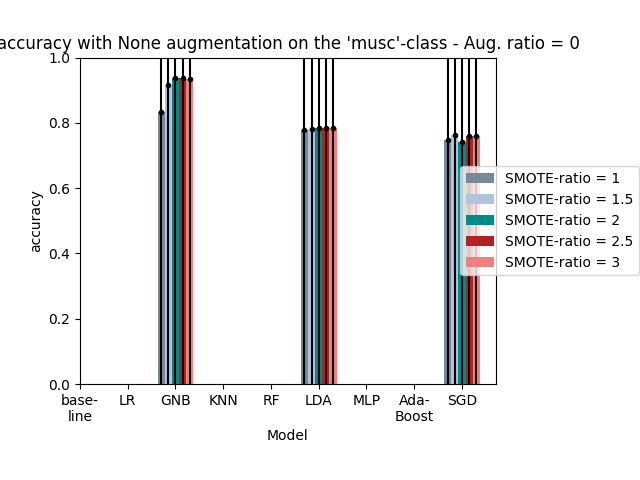
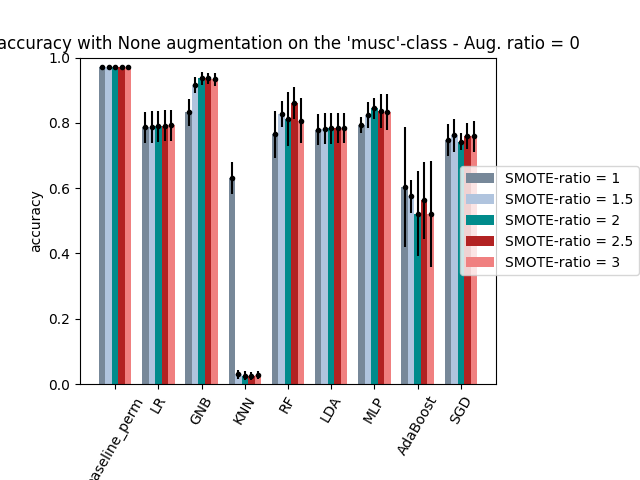
plots smote

Changed region(s): [[0.1562, 0.125, 0.75, 0.9375], [0.125, 0.9062, 0.1875, 1.0], [0.0938, 0.8125, 0.1562, 0.875]]

diff --git a/evaluation/results.py b/evaluation/results.py
@@ -107,7 +107,7 @@ class getResults:
 
         print(f"\n ---> Pickle path changed to: {self.pickle_path}")
 
-    def mergeResultFiles(self, file_name="merged", merge_smote_files=False, merge_aug_files=False, exclude_models=None):
+    def mergeResultFiles(self, file_name="merged", merge_smote_files=False, merge_aug_files=False, exclude_models=None, merge_smote=False, model_name='AdaBoost'):
 
         if self.merged_file == False:
             raise Exception("Merged file set to 'False'")
@@ -301,7 +301,7 @@ class getResults:
                 for idx_art, artifact in enumerate(self.artifacts):
                     # table[artifact] = []
                     store_model = [0] * len(self.models)
-                    sensitivity_std = [0] * len(self.models)
+                    measure_std = [0] * len(self.models)
 
                     for idx_mod, model in enumerate(self.models):
 
@@ -331,10 +331,10 @@ class getResults:
 
                         # Store standard deviation for sensitivies for each classifier/ model
                         store_model[idx_mod] = np.mean(store_scores)
-                        sensitivity_std[idx_mod] = np.mean(store_scores)
+                        measure_std[idx_mod] = np.std(store_scores)
 
                     table[artifact] = store_model
-                    table_std[artifact] = sensitivity_std
+                    table_std[artifact] = measure_std
 
                 table['avg. accuracy'] = np.mean(acc, axis=1)
                 table['avg. weighted f2'] = np.mean(f2s, axis=1)
@@ -354,7 +354,7 @@ class getResults:
     def plotResultsAugmentation(self, performances_dict, errors_dict, experiment, aug_technique, measure="sensitiviy",
                                 save_img=False):
 
-        save_path = (self.slash).join([dir, "Plots", experiment])
+        save_path = (self.slash).join([self.dir, "Plots", experiment])
 
         colorlist = ["lightslategrey", "lightsteelblue", "darkcyan", "firebrick", "lightcoral"]
         # Plotting results
@@ -363,7 +363,7 @@ class getResults:
         for indv_art, name in enumerate(self.artifacts):
             for j, smote_ratio in enumerate(self.smote_ratios):
                 for i, aug_ratio in enumerate(self.aug_ratios):
-                    performance_dict = performance_dict[aug_ratio][smote_ratio]
+                    performance_dict = performances_dict[aug_ratio][smote_ratio]
                     error_dict = errors_dict[aug_ratio][smote_ratio]
 
                     performance_vals = np.array(list(performance_dict.values())[:art])
@@ -377,14 +377,16 @@ class getResults:
                                  fmt='.', color='k')
 
                 models = self.models
+                """
                 for i, model in enumerate(models):
                     if model == 'baseline_perm':
                         models[i] = "base-\nline"
                     elif model == 'AdaBoost':
                         models[i] = "Ada-\nBoost"
+                """
 
 
-                plt.xticks(np.arange(len(models)), models, rotation=0)
+                plt.xticks(np.arange(len(models)), models, rotation=60)
                 plt.ylim(0, 1)
 
                 if aug_technique == None:
@@ -415,7 +417,7 @@ class getResults:
         if aug_ratios == None:
             aug_ratios = self.aug_ratios
 
-        save_path = (self.slash).join([dir, "Plots", experiment])
+        save_path = (self.slash).join([self.dir, "Plots", experiment])
 
         colorlist = ["lightslategrey", "lightsteelblue", "darkcyan", "firebrick", "lightcoral"]
         # Plotting results
@@ -440,13 +442,15 @@ class getResults:
                                      fmt='.', color='k')
 
                     models = self.models
+                    """
                     for i, model in enumerate(models):
                         if model == 'baseline_perm':
                             models[i] = "base-\nline"
                         elif model == 'AdaBoost':
                             models[i] = "Ada-\nBoost"
+                    """
 
-                    plt.xticks(np.arange(len(models)), models, rotation=0)
+                    plt.xticks(np.arange(len(models)), models, rotation=60)
                     plt.ylim(0, 1)
 
                     if aug_technique == None:
@@ -485,14 +489,17 @@ class getResults:
                         plt.errorbar(x=X_axis + 0.15 * i, y=performance_vals[indv_art, :], yerr=error_vals[indv_art, :],
                                      fmt='.', color='k')
 
+
                     models = self.models
+                    """
                     for i, model in enumerate(models):
                         if model == 'baseline_perm':
                             models[i] = "base-\nline"
                         elif model == 'AdaBoost':
                             models[i] = "Ada-\nBoost"
+                    """
 
-                    plt.xticks(np.arange(len(models)), models, rotation=0)
+                    plt.xticks(np.arange(len(models)), models, rotation=60)
                     plt.ylim(0, 1)
 
                     if aug_technique == None:
@@ -593,7 +600,7 @@ class getResults:
     def getPredictions(self, aug_ratios=None, smote_ratios=None, artifacts=None, models=None, withFolds=False):
 
         correct_models = ['baseline_perm', 'LR', 'GNB', 'KNN', 'RF', 'LDA', 'MLP', 'AdaBoost', 'SGD']
-        if self.models is not correct_models:
+        if self.models != correct_models:
             self.models = correct_models
 
         if aug_ratios is None:
@@ -636,8 +643,6 @@ class getResults:
                             y_pred_fold = results_all[aug_ratio][smote_ratio][fold][artifact][model]['y_pred']
 
                             y_pred.append(y_pred_fold)
-
-
 
                         try:
                             trial = np.concatenate(y_pred)

diff --git a/evaluation/smote_experiment.py b/evaluation/smote_experiment.py
@@ -5,7 +5,7 @@ if __name__ == '__main__':
 
     # Example of merging fully created files from different models.
     experiment = "smote_f2"  # directory containing the files we will look at
-    experiment_name = '_smote_f2_merge_withoutKNN'
+    experiment_name = '_smote_f2_merged_allModels'
     fullSMOTE = getResults(dir, experiment, experiment_name, merged_file=True, windowsOS=True)
     fullSMOTE.mergeResultFiles(file_name=experiment_name)
 
@@ -33,22 +33,6 @@ if __name__ == '__main__':
                           across_SMOTE=True,
                           save_img=save_img)
 
-    # Next we wish to examine sensitivity
-    fullSMOTE.printResults(measure="sensitivity",
-                           experiment_name=experiment_name,
-                           smote_ratios=[1],
-                           aug_ratios=[0],
-                           printSTDTable=False,
-                           LaTeX=False)
-
-    fullSMOTE.plotResults(measure="sensitivity",
-                          experiment_name=experiment_name,
-                          aug_technique=aug_technique,
-                          smote_ratios=fullSMOTE.smote_ratios,
-                          aug_ratios=[0],
-                          across_SMOTE=False,
-                          save_img=save_img)
-
     # Next we wish to examine accuracy
     fullSMOTE.printResults(measure="accuracy",
                            experiment_name=experiment_name,
@@ -57,10 +41,29 @@ if __name__ == '__main__':
                            printSTDTable=False,
                            LaTeX=False)
 
-    fullSMOTE.plotResults(measure='accuracy',
+    fullSMOTE.plotResults(measure="accuracy",
                           experiment_name=experiment_name,
                           aug_technique=aug_technique,
                           smote_ratios=fullSMOTE.smote_ratios,
                           aug_ratios=[0],
                           across_SMOTE=True,
                           save_img=save_img)
+
+    # Next we wish to examine accuracy
+    fullSMOTE.printResults(measure="sensitivity",
+                           experiment_name=experiment_name,
+                           smote_ratios=[1],
+                           aug_ratios=[0],
+                           printSTDTable=False,
+                           LaTeX=False)
+
+    fullSMOTE.plotResults(measure='sensitivity',
+                          experiment_name=experiment_name,
+                          aug_technique=aug_technique,
+                          smote_ratios=fullSMOTE.smote_ratios,
+                          aug_ratios=[0],
+                          across_SMOTE=True,
+                          save_img=save_img)
+
+    print("Break")
+

diff --git a/evaluation/ensemble_experiment.py b/evaluation/ensemble_experiment.py
@@ -9,7 +9,7 @@ if __name__ == '__main__':
 
     # Example of merging fully created files from different models.
     experiment = "smote_f2"  # directory containing the files we will look at
-    experiment_name = '_smote_f2_mergeExample'
+    experiment_name = '_smote_f2_withoutKNN'
     fullSMOTE = getResults(dir, experiment, experiment_name, merged_file=True, windowsOS=True)
     fullSMOTE.mergeResultFiles(file_name=experiment_name)
 
@@ -23,7 +23,7 @@ if __name__ == '__main__':
     MI = fullSMOTE.getMutualInformation(artifact='eyem')
     print("Mutual Information:\n" + str(MI))
 
-    y_pred_dict_sub = fullSMOTE.getPredictions(models=['LDA', 'GNB', 'MLP', 'LR', 'SGD'],
+    y_pred_dict_sub = fullSMOTE.getPredictions(#models=['LDA', 'GNB', 'MLP', 'LR', 'SGD'],
                                                aug_ratios=[0],
                                                withFolds=False)
 
@@ -34,7 +34,7 @@ if __name__ == '__main__':
 
     # The input should be a list of models, a list of aug_ratios for each model and a list of smote_ratios for each
     # model. For future experiments it should take a list with augmentation_techniques in as well.
-    ensemble_pred_dict = fullSMOTE.EnsemblePredictions(['LDA', 'GNB', 'MLP', 'LR', 'SGD'], [0, 0, 0, 0, 0], [1, 1, 1, 1, 1], withFolds=True)
+    ensemble_pred_dict = fullSMOTE.EnsemblePredictions(['LDA', 'GNB', 'MLP', 'LR', 'SGD'], [0, 0, 0, 0, 0], [1, 1, 1, 1, 1], withFolds=False)
 
     #TODO: Implement function to calculate standard error of the ensemble method!
     fullSMOTE.printScores(pred_dict=ensemble_pred_dict, y_true_filename = "y_true_randomstate_0", ensemble=True)

diff --git a/evaluation/augmentation_experiment.py b/evaluation/augmentation_experiment.py
@@ -14,5 +14,16 @@ if __name__ == '__main__':
     # LR_MixUp = getResults(dir, experiment, experiment_name, merged_file=True, windowsOS=True)
     # LR_MixUp.mergeResultFiles(file_name=experiment_name)
 
+    # across_SMOTE has to be False when doing it with augmentation
+    """
+    # For augmentation
+    fullSMOTE.plotResults(measure="sensitivity",
+                          experiment_name=experiment_name,
+                          aug_technique=aug_technique,
+                          smote_ratios=fullSMOTE.smote_ratios,
+                          aug_ratios=[0],
+                          across_SMOTE=False,
+                          save_img=save_img)
+    """
 
     raise NotImplementedError("Run augmentation experiments!")

diff --git a/evaluation/merge_artifacts_singleModel.py b/evaluation/merge_artifacts_singleModel.py
@@ -4,7 +4,6 @@ from results import *
 if __name__ == '__main__':
     dir = r"C:\Users\Albert Kjøller\Documents\GitHub\EEG_epilepsia"  # dir = "/Users/philliphoejbjerg/Documents/GitHub/EEG_epilepsia"  # dir = r"/Users/Jacobsen/Documents/GitHub/EEG_epilepsia" + "/"
 
-
     experiment = "smote_f2"  # "DataAug_white_noiseAdd_LR"
     experiment_name = '_smote_f2_GNB'  # end by either _Noise (or _color_Noise), _GAN or _MixUp if Augmentation
     experiment_object = getResults(dir, experiment, experiment_name, merged_file=False, windowsOS=True)
